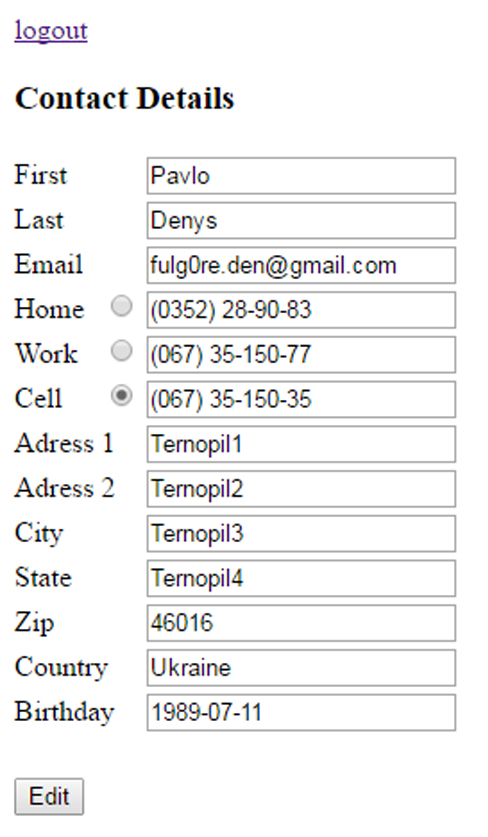
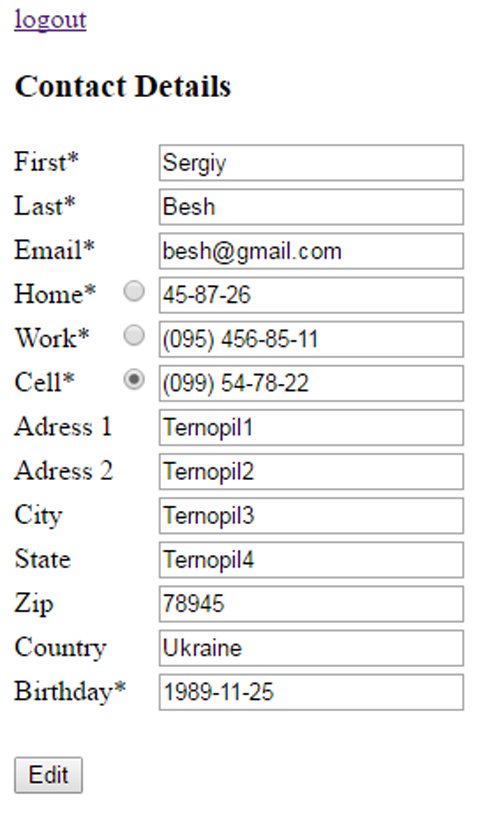
some edits

diff --git a/www/edit.php b/www/edit.php
@@ -28,23 +28,23 @@
 		<h3>Contact Details</h3>
 		<form action="controller.php" method="post">
 			<div class="field">
-				<label for="first">First</label>
+				<label for="first">First*</label>
 					<input type="text" name="first" id="first" value="<?php echo $_POST['firstname']?>" /></br>
-				<label for="last">Last</label>
+				<label for="last">Last*</label>
 					<input type="text" name="last" id="last" value="<?php echo $_POST['lastname'];?>" /></br>
-				<label for="email">Email</label>
+				<label for="email">Email*</label>
 					<input type="text" name="email" id="email" value="<?php echo $_POST['email'];?>" /></br>
-				<label for="home">Home</label>
+				<label for="home">Home*</label>
 					<input type="radio" name="bestPhone" value="home_phone" checked>
 					
 					<input type="text" name="home" id="home" value="<?php echo $_POST['home_phone'];?>" /></br>
-				<label for="work">Work</label>
+				<label for="work">Work*</label>
 					<input type="radio" name="bestPhone" value="work_phone"
 								<?php if ($_POST['best_phone'] == "work_phone"){
 									echo checked;
 								}?>>
 					<input type="text" name="work" id="work" value="<?php echo $_POST['work_phone'];?>" /></br>
-				<label for="cell">Cell</label>
+				<label for="cell">Cell*</label>
 					<input type="radio" name="bestPhone" value="cell_phone"
 								<?php if ($_POST['best_phone'] == "cell_phone"){
 									echo checked;
@@ -62,8 +62,8 @@
 					<input type="text" name="zip" id="zip" value="<?php echo $_POST['zip'];?>" /></br>
 				<label for="country">Country</label>
 					<input type="text" name="country" id="country" value="<?php echo $_POST['country'];?>" /></br>
-				<label for="birthday">Birthday</label>
-					<input type="text" name="birthday" id="birthday" value="<?php echo $_POST['birthday'];?>" /></br>
+				<label for="birthday">Birthday*</label>
+					<input type="text" name="birthday" id="birthday" placeholder="YYYY-MM-DD" value="<?php echo $_POST['birthday'];?>" /></br>
 									
 					<input type="hidden" name="id" value="<?php echo $_POST['id'];?>"></br>
 			</div>

diff --git a/www/controller.php b/www/controller.php
@@ -53,7 +53,3 @@ if(isset($_POST['ADDButton'])){
 	redirect("contacts.php?msg=Error editing contact...");
 	
 };
-
-if(isset($_GET['activePage'])){
-	redirect("contacts.php?activePage=".$_GET['activePage']."&sortBy=".$_GET['sortBy']);
-};

diff --git a/www/contacts.php b/www/contacts.php
@@ -78,7 +78,6 @@
 			$maxPages = ceil($_POST['numberOfContacts']/MAX_ON_PAGE);
 			$temp = 1;
 			while ($temp <= $maxPages) {
-				$tempUrl = "controller.php?activePage=".$temp;
 				?>
 
 				<a href='contacts.php?
